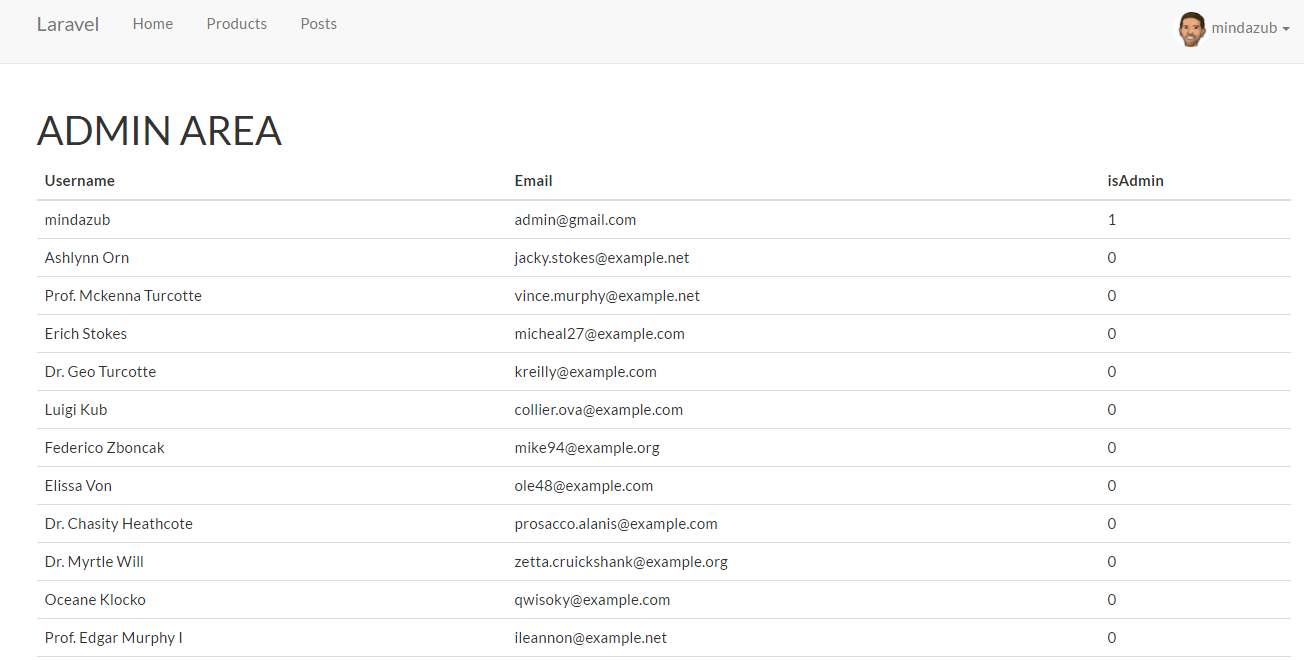
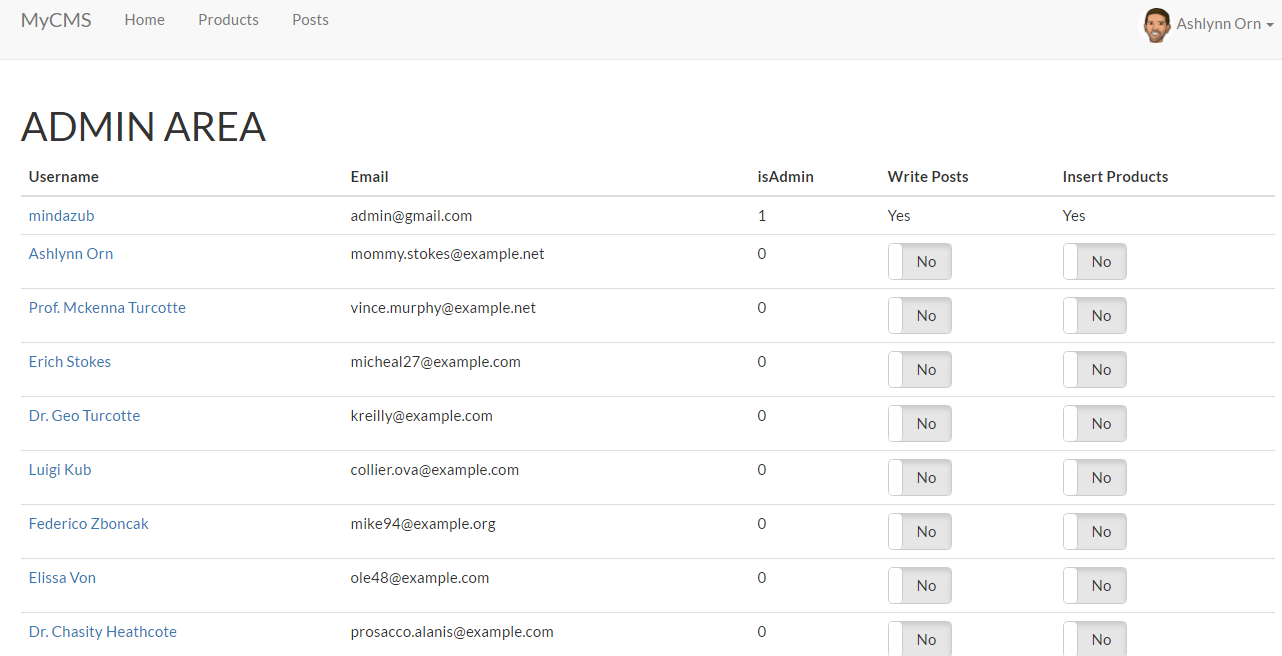
Edit post added

diff --git a/app/Http/Controllers/MindazubController.php b/app/Http/Controllers/MindazubController.php
@@ -1,0 +1,68 @@
+<?php
+
+namespace App\Http\Controllers;
+
+use Illuminate\Http\Request;
+
+use App\Http\Requests;
+use \DateTime;
+
+class MindazubController extends Controller
+{
+    public function index()
+    {
+    	$date=new DateTime(); //this returns the current date time
+$result = $date->format('Y-m-d-H-i-s');
+$result1 = $date->format('Y-m-d');
+$fileName = "ESHOP_" .$result . ".xml"; 
+
+$myfile = fopen($fileName, "w") or die("Unable to open file!");
+
+$failoInformacija =
+      '  <?xml version="1.0" encoding="UTF-8"?>
+<AgnumData Version="13" CreatedByApp="AGNUM 1.534" CreatedByLogin="Gedas" CreatedOn="2016-08-05">
+	<Customers Count="1">
+		<Item KOD="BRIGANTINE" PAVAD="Brigantinė UAB" CONTACT="" ADR="Verkių g. 24-19, LT-44469 Kaunas" TLF="" FAX="" RKOD="302828025" PVMKOD="LT100007112617" BKOD="" BPAVAD="" BSASK="" F1="" F2="" F3="" F4="" F5="" INFO="" ACC1="240" ACC2="450" ACC3="" ACC4="" ACC5="" ACC6="" ACC7="" ACC8="" ACC9="" ACC10="" ACC11="" ACC12="" SALIS="" MIESTAS="" GATVE="" EMAIL="" PINDEX="" SAVIVKOD="" APSKR="" KRD="Y" DEB="Y" AKTYVUS="Y" POZYMIAI="1000000000000000000000000000000000000000000000000000000000000000000000000000000000000000000000000000" KOD_IS="" DEFAULT_CURR="EUR" SALIS_KOD=""/>
+	</Customers>
+	<Departments Count="0"/>
+	<Goods Count="5">
+		<Item KOD="KRUTP5ES305IN" SND_KOD="KAUNAS" PAVAD="Kabelis ryšio SCHNUR UTP 5E kategorijos (305m)" CLASS="0" KATEG="" GRUPE="KABELIS LAN 5cat" POGRUPIS="KAB 5cat Vidaus" PAVAD1="LAN cable SCHNUR UTP 5E INDOOR (305m)" PAVAD2="" PAVAD3="" PAVAD4="" PAVAD5="" PAVAD6="" PAVAD7="ftp://88.119.195.35/CE_Deklaracijos/VIDEO/KABELIS/CE%20Eagle%20SCHNUR%20UTP%20kabeliai.jpg" PAVAD8="" VNT="100m" SVORIS="3.267" SVORIS1="3.0446" TURIS="0" VIETA="          " METOD="0" IPAK="2" KN0="13.56" KN1="9.5081" KN2="12.848770935" KN3="15.99" KN4="15.2" KN5="10.934315" KNB="9.5081" KNBVAL="EUR" REZ="0" UZS="0" APMOKPVM="Y" PVM0="21" PVM="21" PVM2="21" PVM3="21" PVM4="21" PVM5="21" MOK0="0" MEMO="" F1="" F2="CN" F3="85444993" F4="Elektros kabeliai skirti iki 80 V įtampai, naudojami pastatų apsaugos sistemose" F5="" F6="0" F7="0" F8="0" ACC1="" ACC2="" ACC3="" ACC4="" ACC5="" VNT2="" BKOD=""/>
+		<Item KOD="TVKIPDS2CD2342FWD-I-F2.8" SND_KOD="KAUNAS" PAVAD="IP kamera D/N DS-2CD2342WD-I F2.8, DOME, WDR, Hikvision, EXIR, H.264; 4MPix, 2.8mm(?86?), IR pašvietimas iki 30m, IP66, PoE" CLASS="0" KATEG="" GRUPE="V KAMEROS IP" POGRUPIS="KAM IP DOME" PAVAD1="IP camera D/N DS-2CD2342-I F2.8, DOME, WDR, Hikvision, EXIR, H.264; 4MPix,2.8mm, IR LED ill. up to 30m, IP66, PoE" PAVAD2="" PAVAD3="" PAVAD4="" PAVAD5="" PAVAD6="" PAVAD7="ftp://88.119.195.35/CE_Deklaracijos/VIDEO/HIKVISION/CE%20Hikvision%20kameros_12_DS-2CD23.jpg" PAVAD8="" VNT="vnt." SVORIS="0.762" SVORIS1="0.575" TURIS="0" VIETA="" METOD="0" IPAK="27" KN0="99" KN1="99" KN2="133.78365" KN3="84.15" KN4="0" KN5="113.85" KNB="99" KNBVAL="EUR" REZ="0" UZS="0" APMOKPVM="Y" PVM0="21" PVM="21" PVM2="21" PVM3="21" PVM4="21" PVM5="21" MOK0="0" MEMO="" F1="" F2="CN" F3="" F4="" F5="" F6="0" F7="0" F8="0" ACC1="" ACC2="" ACC3="" ACC4="" ACC5="" VNT2="" BKOD=""/>
+		<Item KOD="TVNVRDS7604NI-E1/4P" SND_KOD="KAUNAS" PAVAD="Tinklinis įraš. įrenginys NVR Hikvision DS-7604NI-E1/4P, 4 kanalų, 4 PoE portai, iki 5 Mpix/kan.; 1 HDD VGA, HDMI išėjimai;In 40 Mbps/Out 80 Mbps;" CLASS="0" KATEG="" GRUPE="V NVR IP" POGRUPIS="NVR 4 kanalų" PAVAD1="Network video recorder Hikvision DS-7604NI-E1/4P 8ch. 4 PoE, up to 5 Mpix/ch.; VGA, HDMI output" PAVAD2="" PAVAD3="" PAVAD4="" PAVAD5="" PAVAD6="" PAVAD7="" PAVAD8="" VNT="vnt." SVORIS="2.32" SVORIS1="1.8" TURIS="0" VIETA="          " METOD="0" IPAK="8" KN0="53.2876" KN1="109" KN2="147.29715" KN3="92.65" KN4="0" KN5="125.35" KNB="109" KNBVAL="EUR" REZ="0" UZS="0" APMOKPVM="Y" PVM0="21" PVM="21" PVM2="21" PVM3="21" PVM4="21" PVM5="21" MOK0="0" MEMO="" F1="85319080TW" F2="CN" F3="" F4="" F5="" F6="0" F7="0" F8="0" ACC1="" ACC2="" ACC3="" ACC4="" ACC5="" VNT2="" BKOD=""/>
+		<Item KOD="VGOF16V" SND_KOD="KAUNAS" PAVAD="Gofruotas  vamzdis su viela 16mm" CLASS="0" KATEG="" GRUPE="INSTAL PRIEDAI" POGRUPIS="INST PRIE Kita" PAVAD1="Corrugated pipe 16mm" PAVAD2="" PAVAD3="" PAVAD4="" PAVAD5="" PAVAD6="" PAVAD7="" PAVAD8="" VNT="m" SVORIS="0.03376" SVORIS1="0.03336" TURIS="0" VIETA="          " METOD="0" IPAK="50" KN0="0.072" KN1="0.1" KN2="0.135135" KN3="0" KN4="0" KN5="0.115" KNB="0.1" KNBVAL="EUR" REZ="0" UZS="0" APMOKPVM="Y" PVM0="21" PVM="21" PVM2="21" PVM3="21" PVM4="21" PVM5="21" MOK0="0" MEMO="" F1="" F2="PL" F3="" F4="" F5="" F6="0" F7="0" F8="0" ACC1="" ACC2="" ACC3="" ACC4="" ACC5="" VNT2="" BKOD=""/>
+		<Item KOD="XKD2SEAGATE" SND_KOD="KAUNAS" PAVAD="Kietas diskas SEAGATE Surveillance HDD 2 TB skirtas DVR/NVR įrenginiams" CLASS="0" KATEG="" GRUPE="HDD" POGRUPIS="HDD 2 TB" PAVAD1="Hard disk drive 2TB" PAVAD2="" PAVAD3="" PAVAD4="" PAVAD5="" PAVAD6="" PAVAD7="ftp://88.119.195.35/CE_Deklaracijos/VIDEO/Kieti%20diskai%20HDD/CE%20Seagate%20HDD.jpg" PAVAD8="" VNT="vnt." SVORIS="0.532" SVORIS1="0.528" TURIS="0" VIETA="0         " METOD="0" IPAK="20" KN0="63.79" KN1="73.36" KN2="99.135036" KN3="70.3" KN4="67.24" KN5="84.364" KNB="73.36" KNBVAL="EUR" REZ="0" UZS="0" APMOKPVM="Y" PVM0="21" PVM="21" PVM2="21" PVM3="21" PVM4="21" PVM5="21" MOK0="0" MEMO="" F1="" F2="TH" F3="85238010" F4="Neįrašyti kietieji diskai" F5="" F6="0" F7="0" F8="0" ACC1="" ACC2="" ACC3="" ACC4="" ACC5="" VNT2="" BKOD=""/>
+	</Goods>
+	<Accounts Count="1">
+		<Item SASK="LT027044060003087184" KOD="70440" PAVAD="AB SEB bankas" ADR="" TLF="" SWIFT="CBVILT2X"/>
+	</Accounts>
+	<Documents Type="4" Count="1">
+		<Item DATA="2016.08.05" DOKNR="EBK4069969" DOKNR2="00166172" GVNR="" KL_KOD="BRIGANTINE" PAD_KOD="" SND_KOD="KAUNAS" VAL="EUR" KURS="1" NUOLPROC="0" PVMPROC="0" PVM="109.91" MOK0="0" SUMVISO="523.36" SKOLA="633.27" APMSUM="0" APM_SAL="3" TERM="3" KNTIP="3" PR_VIETA="Verkių g. 24-19, LT-44469 Kaunas" PR_DATA="2016.08.05" KIENO_TR="1" SUMISR="N" CHECKNR="2248" KSNR="ID12001480" CHECKD="2016.08.05 09:24:59" ADDR1="" ADDR2="" DRBKOD="AK010" DRB="Vadybininkas Gediminas Marozas" DRBKOD1="" DRB1="Sandėlininkas- vadybininkas Žilvinas Arlauskas" AG_KOD="" SANDORIS="" PRISTSAL="" TRANSPORTAS="" SALISSIUNT="" FNUM1="0" FNUM2="0" FNUM3="0" SASK="LT027044060003087184" SAVIK="361.6449" SUMAK="0" M10="Y" POZYMIAI="0000000000000000000000000000000000000000000000000000000000000000000000000000000000000000000000000000" NUOL="0" SUMA="523.3597" SUMAP="0" SUMAVISO="523.3597" Count="5">
+			<Row KOD="KRUTP5ES305IN" BKOD="" KIEKIS="3.05" PVM="6.09" PVM_PROC="20.9999927586232" MOK0_PROC="0" MOK0_LT="0" VNT="100m" PARKN="9.5081" ORIGPARKN="9.5081" NUOL="0" NUOL2="0" UZS_PRDATA="2016.08.05" UZS_UZSNR="" UZS_PRKKOD="KRUTP5ES305IN" UZS_SHOPNR="" ZYME=""/>
+			<Row KOD="TVKIPDS2CD2342FWD-I-F2.8" BKOD="" KIEKIS="3" PVM="62.37" PVM_PROC="21" MOK0_PROC="0" MOK0_LT="0" VNT="vnt." PARKN="99" ORIGPARKN="99" NUOL="0" NUOL2="0" UZS_PRDATA="2016.08.05" UZS_UZSNR="" UZS_PRKKOD="TVKIPDS2CD2342FWD-I-F2.8" UZS_SHOPNR="" ZYME=""/>
+			<Row KOD="TVNVRDS7604NI-E1/4P" BKOD="" KIEKIS="1" PVM="22.89" PVM_PROC="21" MOK0_PROC="0" MOK0_LT="0" VNT="vnt." PARKN="109" ORIGPARKN="109" NUOL="0" NUOL2="0" UZS_PRDATA="2016.08.05" UZS_UZSNR="" UZS_PRKKOD="TVNVRDS7604NI-E1/4P" UZS_SHOPNR="" ZYME=""/><Row KOD="VGOF16V" BKOD="" KIEKIS="150" PVM="3.15" PVM_PROC="21" MOK0_PROC="0" MOK0_LT="0" VNT="m" PARKN="0.1" ORIGPARKN="0.1" NUOL="0" NUOL2="0" UZS_PRDATA="2016.08.05" UZS_UZSNR="" UZS_PRKKOD="VGOF16V" UZS_SHOPNR="" ZYME=""/>
+			<Row KOD="XKD2SEAGATE" BKOD="" KIEKIS="1" PVM="15.4056" PVM_PROC="21" MOK0_PROC="0" MOK0_LT="0" VNT="vnt." PARKN="73.36" ORIGPARKN="73.36" NUOL="0" NUOL2="0" UZS_PRDATA="2016.08.05" UZS_UZSNR="" UZS_PRKKOD="XKD2SEAGATE" UZS_SHOPNR="" ZYME=""/>
+		</Item>
+	</Documents>
+	<Barcodes Count="5">
+		<Item KOD="KRUTP5ES305IN" BKOD="" KIEKIS="1"/>
+		<Item KOD="TVKIPDS2CD2342FWD-I-F2.8" BKOD="" KIEKIS="1"/>
+		<Item KOD="TVNVRDS7604NI-E1/4P" BKOD="" KIEKIS="1"/>
+		<Item KOD="VGOF16V" BKOD="" KIEKIS="1"/>
+		<Item KOD="XKD2SEAGATE" BKOD="" KIEKIS="1"/>
+	</Barcodes>
+</AgnumData>
+
+
+';
+
+
+
+
+fwrite($myfile, $failoInformacija);
+fclose($myfile);
+
+
+
+return  " ir " . $myfile;
+    }
+}

diff --git a/resources/views/layouts/app.blade.php b/resources/views/layouts/app.blade.php
@@ -15,6 +15,7 @@
     <link rel="stylesheet" href="https://cdnjs.cloudflare.com/ajax/libs/twitter-bootstrap/3.3.6/css/bootstrap.min.css" integrity="sha384-1q8mTJOASx8j1Au+a5WDVnPi2lkFfwwEAa8hDDdjZlpLegxhjVME1fgjWPGmkzs7" crossorigin="anonymous">
     {{-- <link href="{{ elixir('css/app.css') }}" rel="stylesheet"> --}}
 
+    <link href="https://gitcdn.github.io/bootstrap-toggle/2.2.2/css/bootstrap-toggle.min.css" rel="stylesheet">
     <style>
         body {
             font-family: 'Lato';
@@ -40,7 +41,7 @@
 
                 <!-- Branding Image -->
                 <a class="navbar-brand" href="{{ url('/') }}">
-                    Laravel
+                    MyCMS
                 </a>
             </div>
 
@@ -59,6 +60,9 @@
                         <li><a href="{{ url('/login') }}">Login</a></li>
                         <li><a href="{{ url('/register') }}">Register</a></li>
                     @else
+                        @if(Auth::user()->isAdmin)
+                        <li><a href="{{ url('/admin') }}">Admin</a></li>
+                        @endif
                         <li class="dropdown">
                             <a href="#" class="dropdown-toggle" data-toggle="dropdown" role="button" aria-expanded="false">
 <!--                                 <img src="/uploads/avatars/{{ Auth::user()->avatart }}" style="width: 32px; height: 32px; position: absolute; top: 10px; left: 10px; border-radius: 50%" >
@@ -86,6 +90,8 @@
     <script src="https://cdnjs.cloudflare.com/ajax/libs/jquery/2.2.3/jquery.min.js" integrity="sha384-I6F5OKECLVtK/BL+8iSLDEHowSAfUo76ZL9+kGAgTRdiByINKJaqTPH/QVNS1VDb" crossorigin="anonymous"></script>
     <script src="https://cdnjs.cloudflare.com/ajax/libs/twitter-bootstrap/3.3.6/js/bootstrap.min.js" integrity="sha384-0mSbJDEHialfmuBBQP6A4Qrprq5OVfW37PRR3j5ELqxss1yVqOtnepnHVP9aJ7xS" crossorigin="anonymous"></script>
     {{-- <script src="{{ elixir('js/app.js') }}"></script> --}}
+    <script src="https://gitcdn.github.io/bootstrap-toggle/2.2.2/js/bootstrap-toggle.min.js"></script>
+
    
     @yield('javascripts')
 

diff --git a/resources/views/pages/post.blade.php b/resources/views/pages/post.blade.php
@@ -10,7 +10,11 @@
             <div class="col-lg-8">
 
                 <!-- Blog Post -->
-
+                <p>@if(Auth::user()->isAdmin)
+                        <a href="{{ route('post.edit', $post->id) }}" class="btn btn-sm btn-info">Edit</a>
+                        <button type="submit" class="btn btn-sm btn-danger">Delete</button>
+                   @endif
+                </p>
                 <!-- Title -->
                 <h1>{{ $post->title }}</h1>
 
@@ -32,11 +36,7 @@
                 <hr>
 
                 <!-- Post Content -->
-                <p class="lead">Lorem ipsum dolor sit amet, consectetur adipisicing elit. Ducimus, vero, obcaecati, aut, error quam sapiente nemo saepe quibusdam sit excepturi nam quia corporis eligendi eos magni recusandae laborum minus inventore?</p>
-                <p>Lorem ipsum dolor sit amet, consectetur adipisicing elit. Ut, tenetur natus doloremque laborum quos iste ipsum rerum obcaecati impedit odit illo dolorum ab tempora nihil dicta earum fugiat. Temporibus, voluptatibus.</p>
-                <p>Lorem ipsum dolor sit amet, consectetur adipisicing elit. Eos, doloribus, dolorem iusto blanditiis unde eius illum consequuntur neque dicta incidunt ullam ea hic porro optio ratione repellat perspiciatis. Enim, iure!</p>
-                <p>Lorem ipsum dolor sit amet, consectetur adipisicing elit. Error, nostrum, aliquid, animi, ut quas placeat totam sunt tempora commodi nihil ullam alias modi dicta saepe minima ab quo voluptatem obcaecati?</p>
-                <p>Lorem ipsum dolor sit amet, consectetur adipisicing elit. Harum, dolor quis. Sunt, ut, explicabo, aliquam tenetur ratione tempore quidem voluptates cupiditate voluptas illo saepe quaerat numquam recusandae? Qui, necessitatibus, est!</p>
+                <p class="lead">{{ $post->body }}</p>
 
                 <hr>
 

diff --git a/resources/views/pages/posts/postEdit.blade.php b/resources/views/pages/posts/postEdit.blade.php
@@ -1,0 +1,37 @@
+@extends('layouts.app')
+
+@section('content')
+
+
+
+<div class="container">
+<div class="row">
+
+            <!-- Blog Post Content Column -->
+            <div class="col-lg-8">
+
+                <div class="panel panel-info">
+            <div class="panel-heading">
+            {!! Form::model($post, array('method' => 'PATCH', 'route' => array('post.update', $post->id))) !!}
+              <h3 class="panel-title">{{ $post->title }} | EDIT POST&nbsp&nbsp<button type="submit" class="btn btn-sm btn-success pull-right" style="color: white;"><!-- <i class="glyphicon glyphicon-ok"> -->OK</button></h3>
+            </div>
+            <div class="panel-body">
+              <div class="row">
+              {!! Form::label('Title', null) !!}
+              {!! Form::text('title', null, ['class'=>'form-control']) !!}
+              {!! Form::label('Excerpt of the Post', null) !!}
+              {!! Form::textarea('excerpt', null, ['class'=>'form-control']) !!}
+              {!! Form::label('Body of the Post', null) !!}
+              {!! Form::textarea('body', null, ['class'=>'form-control']) !!}
+
+              </div>
+            </div>
+            {!! Form::close() !!}
+</div>
+<!-- /.row -->	   
+</div>
+<!-- /.container -->	  
+
+
+
+@endsection

diff --git a/app/Http/Controllers/HomeController.php b/app/Http/Controllers/HomeController.php
@@ -49,6 +49,49 @@ class HomeController extends Controller
         return view('pages.post', compact('post'));
     }
 
+    public function editPost($id)
+    {
+        // dd($id);
+
+        $post = Post::where('id', $id)->first();
+
+
+        // dd($user->name);
+
+        return view('pages.posts.postEdit', compact('post'));
+    }
+
+    public function updatePost($id, Request $request) {
+
+        // dd($request);
+
+        $post = Post::where('id', $id)->first();
+        // dd($id);
+
+        $rules = [
+            'title' => 'required',
+            'excerpt' => 'required',
+            'body' => 'required',
+        ];
+
+         $validator = Validator::make($data = $request->all(), $rules);
+        if ($validator->fails())
+        {
+            return Redirect::back()->withErrors($validator)->withInput();
+        }
+
+        $post->title = $request->title;
+        $post->body = $request->body;
+        $post->excerpt = $request->excerpt;
+        $post->save();
+
+        // dd($user->email);
+
+        return view('pages.post', compact('post'));
+
+    }
+
+
 
     public function editProfile($id)
     {

diff --git a/resources/views/admin/index.blade.php b/resources/views/admin/index.blade.php
@@ -12,15 +12,24 @@
 					<th>Username</th>
 					<th>Email</th>
 					<th>isAdmin</th>
+					<th>Write Posts</th>
+					<th>Insert Products</th>
 				</tr>
 			</thead>
 
 			<tbody>
 				@forelse ( $users as $user )
 					<tr>
-						<td>{{ $user->name }}</td>
+						<td><a href="{{ route('profile.show', $user->id) }}">{{ $user->name }}</a></td>
 						<td>{{ $user->email }}</td>			
 						<td>{{ $user->isAdmin }}</td>
+						@if($user->isAdmin)
+						<td>Yes</td>
+						<td>Yes</td>
+						@else
+						<td><input type="checkbox" data-toggle="toggle" data-on="Yes" data-off="No"></td>
+						<td><input id="toggle-two" type="checkbox" data-toggle="toggle" data-on="Yes" data-off="No"></td>
+						@endif
 					</tr>
 				@empty
 
@@ -32,5 +41,18 @@
 		</table>
 
 </div>
+
+@stop
+
+@section('javascripts')
+
+	<script>
+	  $(function() {
+	    $('#toggle-two').bootstrapToggle({
+	      on: 'Enabled',
+	      off: 'Disabled'
+	    });
+	  })
+	</script>
 
 @stop

diff --git a/resources/views/pages/profile/profile.blade.php b/resources/views/pages/profile/profile.blade.php
@@ -67,8 +67,15 @@
                         <td>Phone Number</td>
                         <td>123-4567-890(Landline)<br><br>555-4567-890(Mobile)
                         </td>
-                           
                       </tr>
+                      @if($user->isAdmin)
+                      <tr>
+                        <td>Level</td>
+                        <td>
+                            <span class="glyphicon glyphicon-star"></span> ADMIN
+                        </td>
+                      </tr>
+                      @endif
                      
                     </tbody>
                   </table>

diff --git a/app/Http/routes.php b/app/Http/routes.php
@@ -37,6 +37,8 @@ Route::any('/search',function(){
 
 Route::auth();
 
+Route::get('/mindazub', 'MindazubController@index');
+
 Route::get('/auth/success', [
     'as'   => 'auth.success',
     'uses' => 'Auth\AuthController@success'
@@ -62,6 +64,17 @@ Route::get('/posts/{id}',[
 	'as' => 'post.show',
 	'uses' => 'HomeController@post'
 	]);
+
+Route::get('/posts/{id}/edit',[
+	'as' => 'post.edit',
+	'uses' => 'HomeController@editPost'
+	]);
+
+Route::patch('/posts/{id}',[
+	'as' => 'post.update',
+	'uses' => 'HomeController@updatePost'
+	]);
+
 
 
 Route::get('/profile/{id}', [

diff --git a/resources/views/pages/posts.blade.php b/resources/views/pages/posts.blade.php
@@ -32,6 +32,11 @@
                     &nbsp&nbsp
                     <span class="glyphicon glyphicon-time"></span> Posted on August 24, 2013 at 9:00 PM
                 </p>
+                <p>@if(Auth::user()->isAdmin)
+                        <button class="btn btn-sm btn-info">Edit</button>
+                        <button class="btn btn-sm btn-danger">Delete</button>
+                   @endif
+                </p>
 
                 <!-- <hr> -->
 
